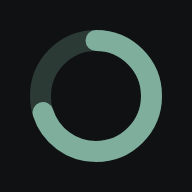
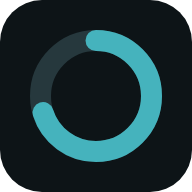
Paleta Oceano e tema claro/escuro seguindo o sistema

diff --git a/src/index.scss b/src/index.scss
@@ -1,33 +1,91 @@
+/* =========================================================
+   Tokens — paleta Oceano
+
+   Três estados, não dois. O padrão é seguir o sistema: nesse
+   caso o <html> não tem atributo nenhum e quem decide é o
+   prefers-color-scheme. Quando você escolhe no botão da barra,
+   entra data-tema="claro" ou "escuro" e a escolha ganha do
+   sistema nos dois sentidos.
+
+   Por isso o :root nu carrega a paleta CLARA inteira, e os dois
+   blocos abaixo só redefinem os tokens. Nenhuma cor pode existir
+   só dentro de um deles — senão o estado "segue o sistema" fica
+   sem ela.
+
+   O modo claro não é o escuro invertido: sobre fundo claro o
+   acento precisa ser mais fechado e mais saturado, senão some.
+   ========================================================= */
+
 :root {
-  --bg: #0a0a0b;
-  --bg-elevated: #151517;
-  --bg-elevated-2: #1e1e21;
-  --border: #262629;
-  --border-strong: #38383d;
-  --text: #f2f1ee;
-  --text-muted: #8f8f94;
-  --text-subtle: #5c5c60;
+  --bg: #f2f7f8;
+  --bg-elevated: #ffffff;
+  --bg-elevated-2: #e7eff1;
+  --border: #dae5e8;
+  --border-strong: #b9c9ce;
+  --text: #0f191c;
+  --text-muted: #53656b;
+  --text-subtle: #7e9298;
 
-  --accent: #7fae9d;
-  --accent-strong: #9bc4b4;
-  --accent-bg: rgba(127, 174, 157, 0.12);
-  --accent-ink: #0a0a0b;
+  --accent: #0f6f7a;
+  --accent-strong: #0a565f;
+  --accent-bg: #0f6f7a24;
+  --accent-ink: #ffffff;
 
-  --danger: #d97066;
-  --danger-bg: rgba(217, 112, 102, 0.12);
+  --danger: #b2423a;
+  --danger-bg: #b2423a1f;
 
   /* tipos de tarefa do Foco */
-  --cor-trabalho: #e0a458;
-  --cor-estudo: #6ba8dd;
+  --cor-trabalho: #8a5a12;
+  --cor-estudo: #4a44b8;
 
+  --shadow: 0 1px 2px rgba(15, 25, 28, 0.06), 0 8px 24px -14px rgba(15, 25, 28, 0.28);
+  color-scheme: light;
+}
+
+@mixin oceanoEscuro {
+  --bg: #080b0d;
+  --bg-elevated: #101619;
+  --bg-elevated-2: #182024;
+  --border: #20292e;
+  --border-strong: #33414a;
+  --text: #eef3f5;
+  --text-muted: #88969d;
+  --text-subtle: #667379;
+
+  --accent: #45b3bd;
+  --accent-strong: #6fcdd4;
+  --accent-bg: #45b3bd1f;
+  --accent-ink: #04100f;
+
+  --danger: #e0736a;
+  --danger-bg: #e0736a1f;
+
+  --cor-trabalho: #e8a04d;
+  --cor-estudo: #8f8cf0;
+
+  --shadow: 0 1px 2px rgba(0, 0, 0, 0.4), 0 8px 24px -12px rgba(0, 0, 0, 0.6);
+  color-scheme: dark;
+}
+
+/* sem escolha salva: manda o sistema — mas "claro" no botão ganha dele */
+@media (prefers-color-scheme: dark) {
+  :root:not([data-tema='claro']) {
+    @include oceanoEscuro;
+  }
+}
+
+/* escolha explícita: ganha do sistema também no outro sentido */
+:root[data-tema='escuro'] {
+  @include oceanoEscuro;
+}
+
+:root {
   --sans: system-ui, 'Segoe UI', Roboto, sans-serif;
   --radius: 14px;
   --radius-sm: 10px;
-  --shadow: 0 1px 2px rgba(0, 0, 0, 0.35), 0 8px 24px -12px rgba(0, 0, 0, 0.5);
 
   font: 16px/145% var(--sans);
   letter-spacing: -0.01em;
-  color-scheme: dark;
   color: var(--text);
   background: var(--bg);
   font-synthesis: none;
@@ -42,6 +100,8 @@
 
 body {
   margin: 0;
+  background: var(--bg);
+  color: var(--text);
   min-height: 100svh;
   padding-bottom: env(safe-area-inset-bottom);
 }

diff --git a/src/components/BotaoTema.tsx b/src/components/BotaoTema.tsx
@@ -1,0 +1,62 @@
+import { useEffect, useState } from 'react'
+import { aplicarTema, lerTema, proximoTema, rotuloTema, temaEfetivo, type Tema } from '../lib/tema'
+import s from './BotaoTema.module.scss'
+
+/** sol quando está claro, lua quando está escuro */
+function Icone({ escuro }: { escuro: boolean }) {
+  return escuro ? (
+    <svg viewBox="0 0 24 24" width="15" height="15" aria-hidden="true">
+      <path
+        d="M20 14.2A8.2 8.2 0 0 1 9.8 4 8.5 8.5 0 1 0 20 14.2Z"
+        fill="none"
+        stroke="currentColor"
+        strokeWidth="1.7"
+        strokeLinejoin="round"
+      />
+    </svg>
+  ) : (
+    <svg viewBox="0 0 24 24" width="15" height="15" aria-hidden="true">
+      <circle cx="12" cy="12" r="4.1" fill="none" stroke="currentColor" strokeWidth="1.7" />
+      <g stroke="currentColor" strokeWidth="1.7" strokeLinecap="round">
+        <path d="M12 2.6v2.1M12 19.3v2.1M2.6 12h2.1M19.3 12h2.1" />
+        <path d="M5.4 5.4l1.5 1.5M17.1 17.1l1.5 1.5M18.6 5.4l-1.5 1.5M6.9 17.1l-1.5 1.5" />
+      </g>
+    </svg>
+  )
+}
+
+export default function BotaoTema() {
+  const [tema, setTema] = useState<Tema>(() => lerTema())
+
+  // o sistema pode trocar sozinho ao anoitecer; se estamos seguindo
+  // ele, o ícone tem que acompanhar
+  const [, forcar] = useState(0)
+  useEffect(() => {
+    if (tema !== 'sistema') return
+    const mq = window.matchMedia('(prefers-color-scheme: dark)')
+    const aoTrocar = () => forcar((n) => n + 1)
+    mq.addEventListener('change', aoTrocar)
+    return () => mq.removeEventListener('change', aoTrocar)
+  }, [tema])
+
+  function trocar() {
+    const novo = proximoTema(tema)
+    aplicarTema(novo)
+    setTema(novo)
+  }
+
+  const escuro = temaEfetivo(tema) === 'escuro'
+
+  return (
+    <button
+      type="button"
+      className={s.botao}
+      onClick={trocar}
+      title={rotuloTema[tema]}
+      aria-label={rotuloTema[tema]}
+    >
+      <Icone escuro={escuro} />
+      {tema === 'sistema' && <span className={s.ponto} aria-hidden="true" />}
+    </button>
+  )
+}

diff --git a/src/lib/tema.ts b/src/lib/tema.ts
@@ -1,0 +1,54 @@
+/* =========================================================
+   tema.ts — claro, escuro ou o que o sistema mandar
+
+   Três estados de propósito. "Sistema" não é o mesmo que
+   "escuro": quem deixa o celular trocar sozinho ao anoitecer
+   quer que o app troque junto, e forçar um dos dois tira isso.
+
+   Quem escreve no <html> na abertura é o script inline do
+   index.html — se esperasse o React, a tela piscaria clara
+   antes de escurecer.
+   ========================================================= */
+
+export type Tema = 'sistema' | 'claro' | 'escuro'
+
+const CHAVE = 'app.tema'
+
+export function lerTema(): Tema {
+  try {
+    const t = localStorage.getItem(CHAVE)
+    return t === 'claro' || t === 'escuro' ? t : 'sistema'
+  } catch {
+    return 'sistema'
+  }
+}
+
+export function aplicarTema(t: Tema) {
+  const raiz = document.documentElement
+  if (t === 'sistema') raiz.removeAttribute('data-tema')
+  else raiz.setAttribute('data-tema', t)
+
+  try {
+    if (t === 'sistema') localStorage.removeItem(CHAVE)
+    else localStorage.setItem(CHAVE, t)
+  } catch {
+    /* modo privado: vale só nesta sessão */
+  }
+}
+
+/** o que está pintado na tela agora, já resolvendo o "sistema" */
+export function temaEfetivo(t: Tema): 'claro' | 'escuro' {
+  if (t !== 'sistema') return t
+  return window.matchMedia?.('(prefers-color-scheme: dark)').matches ? 'escuro' : 'claro'
+}
+
+/** ciclo do botão: segue o sistema → claro → escuro → segue o sistema */
+export function proximoTema(t: Tema): Tema {
+  return t === 'sistema' ? 'claro' : t === 'claro' ? 'escuro' : 'sistema'
+}
+
+export const rotuloTema: Record<Tema, string> = {
+  sistema: 'Tema: segue o sistema',
+  claro: 'Tema: claro',
+  escuro: 'Tema: escuro',
+}

diff --git a/index.html b/index.html
@@ -7,8 +7,17 @@
     <meta name="viewport" content="width=device-width, initial-scale=1.0, viewport-fit=cover" />
     <meta name="apple-mobile-web-app-capable" content="yes" />
     <meta name="apple-mobile-web-app-status-bar-style" content="black-translucent" />
-    <meta name="theme-color" content="#0a0a0b" />
+    <meta name="theme-color" media="(prefers-color-scheme: light)" content="#f2f7f8" />
+    <meta name="theme-color" media="(prefers-color-scheme: dark)" content="#080b0d" />
     <title>Foco &amp; Treino</title>
+    <script>
+      // roda antes de qualquer pintura: sem isso a tela pisca clara
+      // antes do React aplicar a preferência salva
+      try {
+        var t = localStorage.getItem('app.tema')
+        if (t === 'claro' || t === 'escuro') document.documentElement.setAttribute('data-tema', t)
+      } catch (e) {}
+    </script>
   </head>
   <body>
     <div id="root"></div>

diff --git a/src/components/BotaoTema.module.scss b/src/components/BotaoTema.module.scss
@@ -1,0 +1,32 @@
+.botao {
+  position: relative;
+  display: inline-flex;
+  align-items: center;
+  justify-content: center;
+  width: 30px;
+  height: 30px;
+  flex: 0 0 auto;
+  background: none;
+  border: 1px solid var(--border-strong);
+  border-radius: 999px;
+  color: var(--text-muted);
+  padding: 0;
+  cursor: pointer;
+
+  &:hover {
+    color: var(--text);
+    background: var(--bg-elevated);
+  }
+}
+
+/* o pontinho marca "estou seguindo o sistema", que é diferente
+   de ter escolhido esse modo na mão */
+.ponto {
+  position: absolute;
+  bottom: 3px;
+  right: 3px;
+  width: 4px;
+  height: 4px;
+  border-radius: 50%;
+  background: var(--accent);
+}

diff --git a/src/components/Nav.tsx b/src/components/Nav.tsx
@@ -1,5 +1,6 @@
 import { NavLink } from 'react-router-dom'
 import { useAuth } from '../auth/AuthProvider'
+import BotaoTema from './BotaoTema'
 import s from './Nav.module.scss'
 
 const abas = [
@@ -27,6 +28,8 @@ export default function Nav() {
       ))}
 
       <span className={s.espaco} />
+
+      <BotaoTema />
 
       <button type="button" className={s.sair} onClick={() => void sair()}>
         Sair

diff --git a/vite.config.ts b/vite.config.ts
@@ -32,8 +32,8 @@ export default defineConfig({
         lang: 'pt-BR',
         short_name: 'Foco',
         description: 'Horas de foco e registro de treinos, num lugar só',
-        theme_color: '#0a0a0b',
-        background_color: '#0a0a0b',
+        theme_color: '#080b0d',
+        background_color: '#080b0d',
         display: 'standalone',
         start_url: '/',
         icons: [
